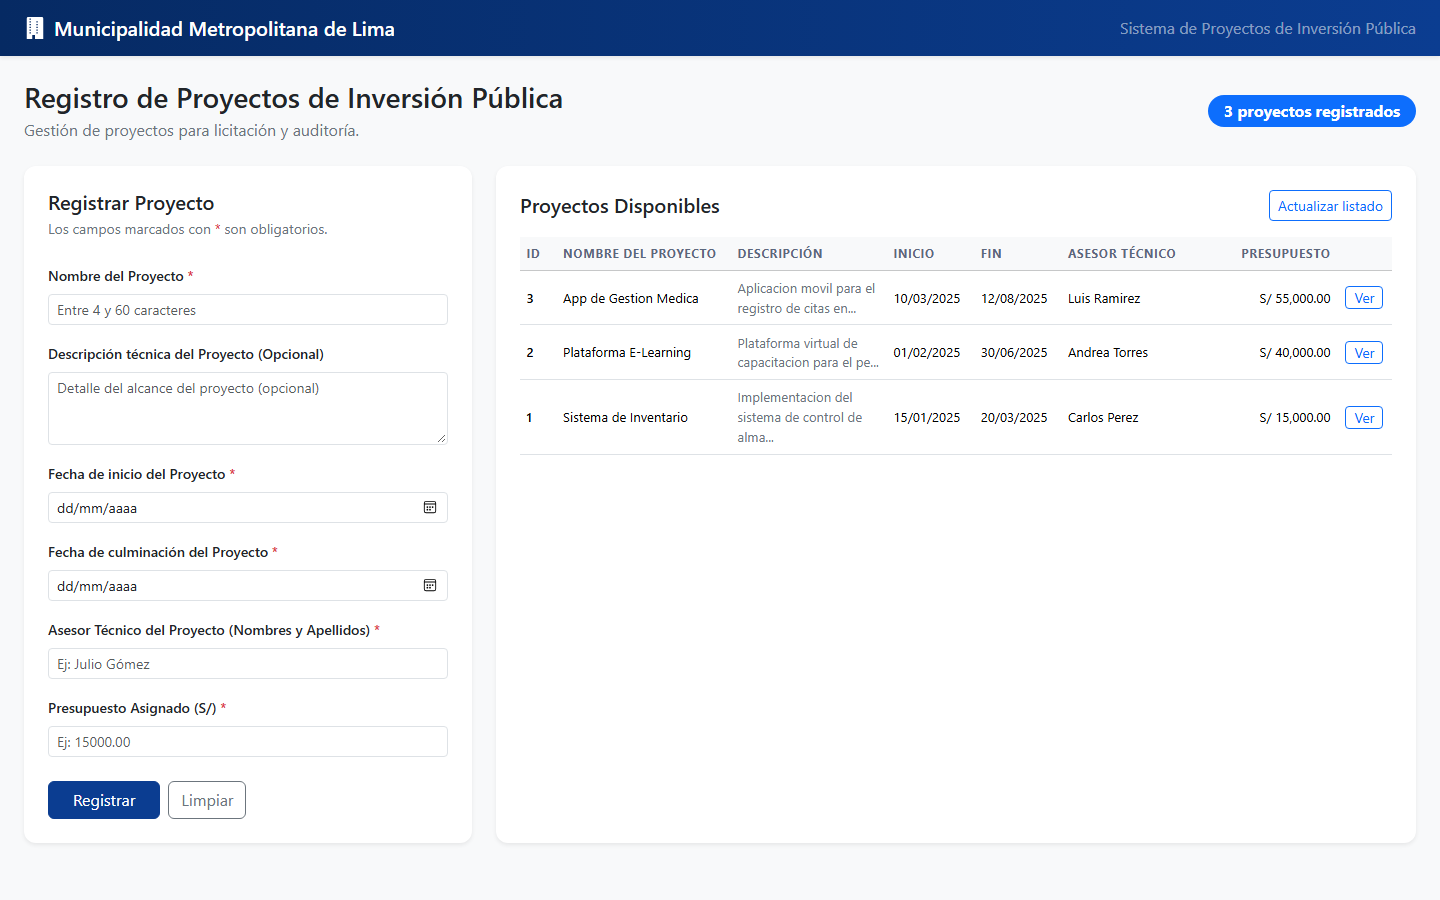
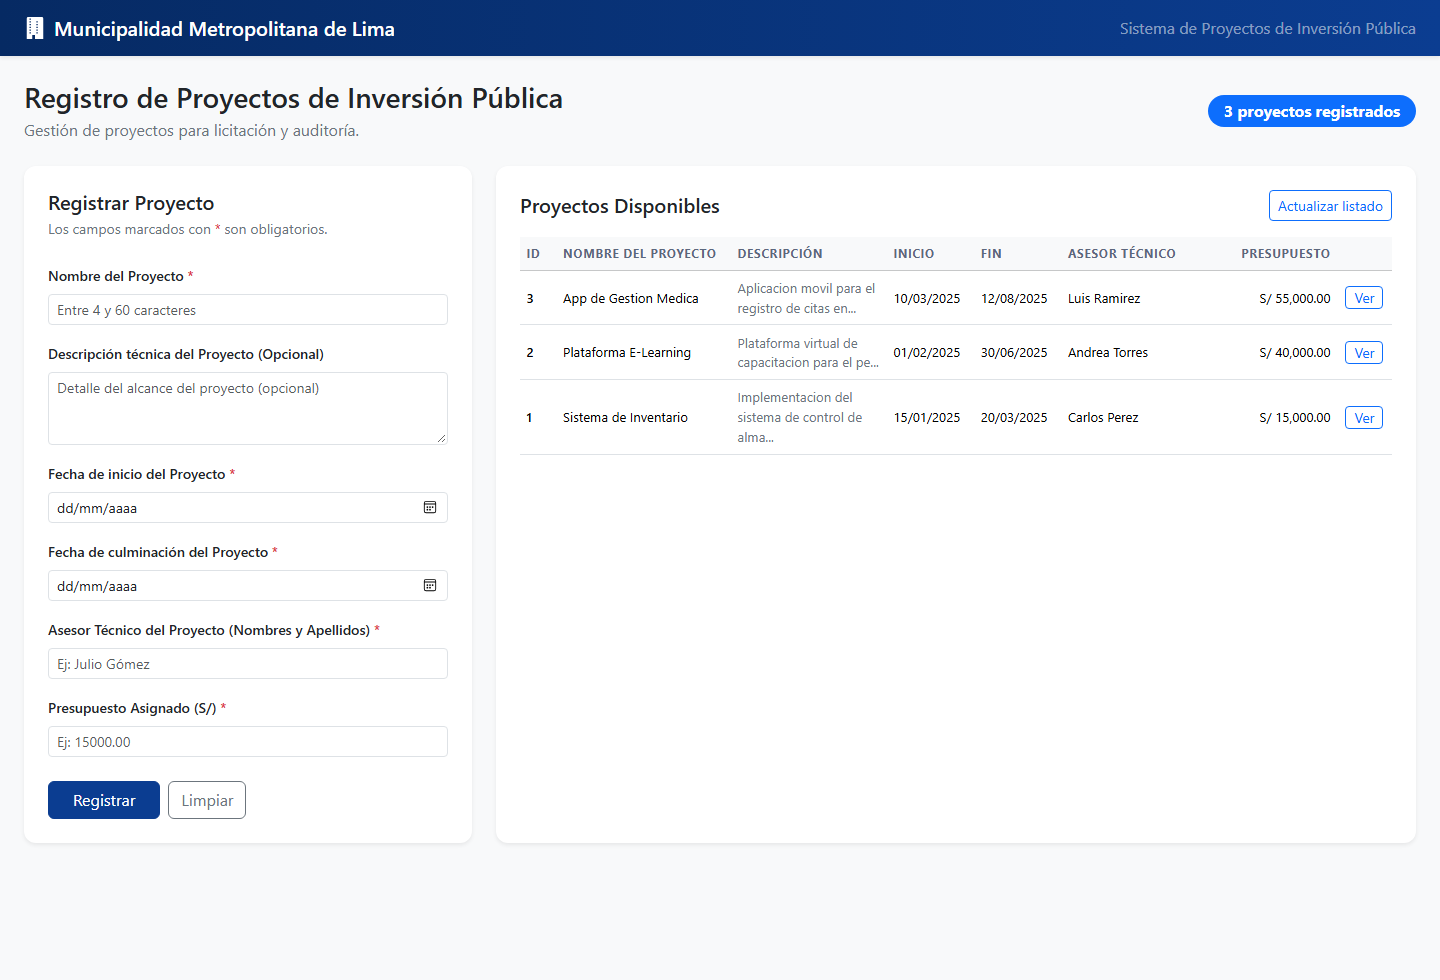
Corrige tildes de los mensajes del servidor y agrega informe de auditoria

diff --git a/src/main/java/pe/cibertec/validacion/ValidadorProyecto.java b/src/main/java/pe/cibertec/validacion/ValidadorProyecto.java
@@ -39,7 +39,7 @@ public final class ValidadorProyecto {
         // 2. Descripcion tecnica: opcional, maximo 255 caracteres
         String descripcion = limpiar(valores.get("descripcion"));
         if (descripcion.length() > 255) {
-            errores.put("descripcion", "La descripcion no debe superar los 255 caracteres.");
+            errores.put("descripcion", "La descripción no debe superar los 255 caracteres.");
         } else {
             proyecto.setDescripcion(descripcion.isEmpty() ? null : descripcion);
         }
@@ -52,7 +52,7 @@ public final class ValidadorProyecto {
         } else {
             fechaInicio = parsearFecha(textoInicio);
             if (fechaInicio == null) {
-                errores.put("fechaInicio", "La fecha de inicio no es valida.");
+                errores.put("fechaInicio", "La fecha de inicio no es válida.");
             } else {
                 proyecto.setFechaInicio(fechaInicio);
             }
@@ -61,13 +61,13 @@ public final class ValidadorProyecto {
         // 4. Fecha de culminacion: requerida y posterior o igual al inicio
         String textoFin = limpiar(valores.get("fechaFin"));
         if (textoFin.isEmpty()) {
-            errores.put("fechaFin", "La fecha de culminacion es obligatoria.");
+            errores.put("fechaFin", "La fecha de culminación es obligatoria.");
         } else {
             LocalDate fechaFin = parsearFecha(textoFin);
             if (fechaFin == null) {
-                errores.put("fechaFin", "La fecha de culminacion no es valida.");
+                errores.put("fechaFin", "La fecha de culminación no es válida.");
             } else if (fechaInicio != null && fechaFin.isBefore(fechaInicio)) {
-                errores.put("fechaFin", "La fecha de culminacion no puede ser anterior a la fecha de inicio.");
+                errores.put("fechaFin", "La fecha de culminación no puede ser anterior a la fecha de inicio.");
             } else {
                 proyecto.setFechaFin(fechaFin);
             }
@@ -76,9 +76,9 @@ public final class ValidadorProyecto {
         // 5. Asesor tecnico: requerido, entre 3 y 80 caracteres
         String asesor = limpiar(valores.get("asesor"));
         if (asesor.isEmpty()) {
-            errores.put("asesor", "El asesor tecnico es obligatorio.");
+            errores.put("asesor", "El asesor técnico es obligatorio.");
         } else if (asesor.length() < 3 || asesor.length() > 80) {
-            errores.put("asesor", "El asesor tecnico debe tener entre 3 y 80 caracteres.");
+            errores.put("asesor", "El asesor técnico debe tener entre 3 y 80 caracteres.");
         } else {
             proyecto.setAsesor(asesor);
         }
@@ -95,12 +95,12 @@ public final class ValidadorProyecto {
                 } else if (presupuesto.scale() > 2) {
                     errores.put("presupuesto", "El presupuesto solo admite 2 decimales.");
                 } else if (presupuesto.compareTo(new BigDecimal("999999999.99")) > 0) {
-                    errores.put("presupuesto", "El presupuesto supera el limite permitido.");
+                    errores.put("presupuesto", "El presupuesto supera el límite permitido.");
                 } else {
                     proyecto.setPresupuesto(presupuesto);
                 }
             } catch (NumberFormatException e) {
-                errores.put("presupuesto", "El presupuesto debe ser un numero valido.");
+                errores.put("presupuesto", "El presupuesto debe ser un número válido.");
             }
         }
 

diff --git a/src/main/java/pe/cibertec/servlet/ProyectoServlet.java b/src/main/java/pe/cibertec/servlet/ProyectoServlet.java
@@ -57,13 +57,13 @@ public class ProyectoServlet extends HttpServlet {
         if (errores.isEmpty()) {
             try {
                 if (proyectoDAO.registrar(proyecto) == 1) {
-                    request.setAttribute("exito", "El proyecto \"" + proyecto.getNombre() + "\" se registro correctamente.");
+                    request.setAttribute("exito", "El proyecto \"" + proyecto.getNombre() + "\" se registró correctamente.");
                     valores.clear();
                 } else {
                     request.setAttribute("errorGeneral", "No se pudo registrar el proyecto. Intente nuevamente.");
                 }
             } catch (RuntimeException e) {
-                request.setAttribute("errorGeneral", "Ocurrio un problema al guardar en la base de datos.");
+                request.setAttribute("errorGeneral", "Ocurrió un problema al guardar en la base de datos.");
                 log("Error al registrar proyecto", e);
             }
         } else {

diff --git a/src/main/java/pe/cibertec/database/Conexion.java b/src/main/java/pe/cibertec/database/Conexion.java
@@ -16,11 +16,11 @@ public class Conexion {
     static {
         try (InputStream entrada = Conexion.class.getClassLoader().getResourceAsStream("db.properties")) {
             if (entrada == null) {
-                throw new IllegalStateException("No se encontro db.properties en WEB-INF/classes");
+                throw new IllegalStateException("No se encontró db.properties en WEB-INF/classes");
             }
             PROPIEDADES.load(entrada);
         } catch (Exception e) {
-            throw new ExceptionInInitializerError("No se pudo leer la configuracion de la base de datos: " + e.getMessage());
+            throw new ExceptionInInitializerError("No se pudo leer la configuración de la base de datos: " + e.getMessage());
         }
     }
 

diff --git a/docs/AUDITORIA.md b/docs/AUDITORIA.md
@@ -1,0 +1,112 @@
+# Auditoría técnica y de requisitos — T1
+
+Evaluación de Laboratorio Nro 1 · **Lenguaje de Programación I** · CIBERTEC
+Alumno: **Ander Vásquez** · Docente: **Jorge Enrique Ventura Gonzáles**
+Fecha de la auditoría: **16/11/2026**
+
+## 1. Entorno verificado
+
+| Componente | Versión usada | Estado |
+|---|---|---|
+| JDK de compilación | 17.0.20 (Microsoft OpenJDK) | OK |
+| JVM de ejecución | 26.0.1 | OK |
+| Apache Tomcat | 11.0.4 (`jakarta.servlet` 6.1) | OK |
+| Microsoft SQL Server | 2025 (17.0.1155.3) | OK |
+| Eclipse | 2026-09 (Enterprise Java) | OK |
+| Navegador de pruebas | Microsoft Edge (Chromium) | OK |
+
+## 2. Cumplimiento de los ítems del examen
+
+### Ítem 01 — Diseño y validaciones (4 pts)
+
+| Requisito del enunciado | Implementación | Verificación |
+|---|---|---|
+| Diseño con Bootstrap | Bootstrap 5.3.3 servido localmente desde `assets/` | Sin llamadas a CDN; CSS/JS responden 200 |
+| Nombre del proyecto obligatorio, 4–60 caracteres | `ValidadorProyecto` + `minlength`/`maxlength` | 3 chars rechazado · 4 y 60 aceptados · 61 rechazado |
+| Descripción técnica opcional | Sin `required`, máximo 255 | Vacío aceptado · 255 aceptado · 256 rechazado |
+| Fecha de inicio obligatoria y válida | `LocalDate.parse`, `required` | Vacío rechazado · `2027-02-30` rechazado |
+| Fecha de culminación obligatoria | `required` + comparación con el inicio | Vacío rechazado · anterior al inicio rechazado |
+| Fecha de culminación ≥ fecha de inicio | `fechaFin.isBefore(fechaInicio)` + `check` en BD | Fechas iguales aceptadas |
+| Asesor técnico obligatorio | Campo `required` + validación de longitud 3–80 | Vacío y 2 chars rechazados |
+| Presupuesto obligatorio y numérico | `BigDecimal`, > 0, máximo 2 decimales | `0`, `-5`, `abc`, `10.555` rechazados; `0.01` aceptado |
+| Mensajes de error visibles | `invalid-feedback` de Bootstrap + alerta resumen | 4+ campos marcados en rojo, datos conservados |
+
+Las validaciones se aplican **en el cliente** (`validacion.js`, atributos HTML5) y **en el servidor**
+(`ValidadorProyecto`). El servidor es la autoridad: aunque se desactive JavaScript, los datos inválidos
+no llegan a la base de datos.
+
+### Ítem 02 — Registro (8 pts)
+
+| Aspecto | Evidencia |
+|---|---|
+| Formulario con los 6 campos | `proyectos.jsp` (nombre, descripción, fechas, asesor, presupuesto) |
+| Envío al controlador | `POST /ProyectoServlet` |
+| Persistencia real en base de datos | `ProyectoDAO.registrar()` con `INSERT` y `PreparedStatement` |
+| Confirmación al usuario | Alerta verde «El proyecto … se registró correctamente» |
+| Acentos y caracteres especiales | «Construcción de Vía Expresa Ñuñoa» / «José Muñoz Ríos» guardados y mostrados correctamente |
+| Integridad | Restricciones `CHECK` de fechas y presupuesto en la tabla |
+
+### Ítem 03 — Listado (8 pts)
+
+| Aspecto | Evidencia |
+|---|---|
+| Tabla con todos los campos | `id`, nombre, descripción, inicio, culminación, asesor, presupuesto |
+| Datos traídos de la base de datos | `ProyectoDAO.listar()` con `SELECT` y `ResultSet` |
+| Orden | `ORDER BY id_proyecto DESC` (el más reciente primero) |
+| Formato de fechas y moneda | `dd/MM/yyyy` y `S/ 1,234.56` |
+| Detalle por registro | Botón *Ver* con modal de Bootstrap |
+| Estado vacío | Fila «No hay proyectos registrados todavía» |
+
+## 3. Pruebas ejecutadas (44 comprobaciones)
+
+Instancia Tomcat aislada en el puerto 8090, desplegando el WAR entregable.
+
+| Bloque | Comprobaciones | Resultado |
+|---|---|---|
+| Listado y diseño | 9 | 9 OK |
+| Registro válido con acentos | 6 | 6 OK |
+| Validaciones del servidor | 22 | 22 OK |
+| Seguridad (XSS, inyección SQL) | 3 | 3 OK |
+| Base de datos (columnas y `CHECK`) | 2 | 2 OK |
+| Restauración de datos de prueba | 2 | 2 OK |
+
+Casos límite cubiertos: nombre de 3/4/60/61 caracteres, fechas iguales, fecha imposible
+(`2027-02-30`), presupuesto `0`, `0.01`, `10.555`, `abc`, asesor de 2 caracteres y descripción
+de 255/256 caracteres.
+
+### Seguridad
+
+- **XSS:** un nombre `<script>alert('x')</script>` se guarda y se muestra escapado
+  (`&lt;script&gt;`); no se ejecuta en el listado ni en el modal.
+- **Inyección SQL:** `Robert'); DROP TABLE dbo.proyectos;--` se almacena como texto; la tabla queda intacta
+  porque todas las consultas usan `PreparedStatement`.
+
+### Calidad de código
+
+- `javac -Xlint:all --release 17`: **0 advertencias, 0 errores**.
+- Patrón por capas: entidad → interfaz DAO → DAO JDBC → servlet → JSP.
+- Configuración de base de datos externalizada en `db.properties` (versionada para el entorno académico).
+
+## 4. Entregables
+
+| Entregable | Ubicación |
+|---|---|
+| Código fuente | `src/main/java`, `src/main/webapp` |
+| Script de base de datos (SQL Server) | `db/bd_proyectos_muni_sqlserver.sql` |
+| Script alternativo (MySQL) | `db/bd_proyectos_muni_mysql.sql` |
+| WAR listo para desplegar | `dist/T1_ProyectosMuni.war` |
+| Proyecto de Eclipse | `.project`, `.classpath`, `.settings/` |
+| Repositorio | <https://github.com/theandy10/T1-Proyectos-Inversion-Publica> |
+
+## 5. Observaciones
+
+1. El proyecto está importado en Eclipse como `T1_ProyectosMuni` y asociado al servidor
+   `apache-tomcat-11.0.4 at localhost`. Para ejecutarlo: clic derecho → `Run As → Run on Server`.
+2. El puerto 8080 debe estar libre; si otra instancia de Tomcat está activa, Eclipse mostrará
+   «Port 8080 required by Tomcat v11.0.4 Server at localhost is already in use».
+3. `db.properties` contiene credenciales de desarrollo porque el docente necesita reproducir la
+   evaluación. En un entorno productivo se usaría un *datasource* del servidor.
+4. El driver `mssql-jdbc.jar` va dentro del WAR (`WEB-INF/lib`), por lo que no hay que configurarlo
+   en Tomcat. Al detener la aplicación, Tomcat avisa que no pudo anular el registro del driver JDBC:
+   es un aviso normal de `DriverManager` y no afecta el funcionamiento.
+5. La base de datos debe existir antes de ejecutar la aplicación: `sqlcmd -S localhost -E -C -i db\bd_proyectos_muni_sqlserver.sql`.

diff --git a/README.md b/README.md
@@ -34,6 +34,11 @@ Municipalidad Metropolitana de Lima.
 
 ![Detalle](docs/03-detalle.png)
 
+## Auditoría
+
+El detalle de la verificación (requisito por requisito, casos límite y pruebas de seguridad) está en
+[`docs/AUDITORIA.md`](docs/AUDITORIA.md).
+
 ## Estructura del proyecto
 
 ```
